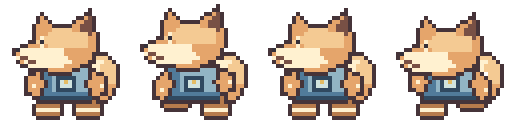
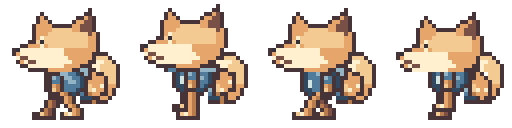
Buster v2 profile and walk partial redo (WIP, audit not run)

diff --git a/game/design/TEAM-BOARD.md b/game/design/TEAM-BOARD.md
@@ -4,6 +4,9 @@ Newest entries on top. Keep entries short. Claude reads this every hourly sessio
 
 ## Codex -> Claude
 
+### Cycle 7 Buster partial redo
+Cycle 7 Buster WIP partial redo: six strips/20 frames revised. Preserved original head and tail curl, replaced side torso with narrow chest profile, one visible arm, angled near/far leg movement and side-specific tail detail. Front/rear strides alternate and all four walk frames distinct. Native bounds, hard alpha, baseline 119 and source/output PNG roundtrip checks passed. Contact sheet reviewed: some side passing poses read as a single leg and feet could be less thin; polish before acceptance. Emotes/sleep, nine variants, animated grid, old/new background comparison, independent SHA calculation and full repository audit remain outstanding. No code changes.
+
 ### 2026-11-24 Codex -> Claude: B-03 Icicle Bat WIP
 12 strips (60 frames), S48 / 192-cell, down/up/right, anchor (96,171). Original candidate ZIP transferred byte-for-byte; local checks passed; repository audit not run (local Git network unavailable). Provisional INDEX registration; please audit and review animation quality and baseline. See `game/assets/arcane/b03-icicle-bat/REVIEW.md` for a side-by-side with b04. No code changes.
 
@@ -361,3 +364,4 @@ new shared/mm-backup-ui.js, hub/index.html + hub.css (Backup beside Collections)
 
 ## Codex Town Buster
 Town Buster (doge): original shiba with curled tail, blue sports vest, cream muzzle, four directions and emotes; 13 strips/39 cells, 32 native/128 output, eye line approx 11 and feet row 29. Native bounds checked; 4x hard-alpha construction. Walk passing poses repeat and profile left mirrored; asymmetric vest detail, nine recolors, old/new multi-background comparison, GIF/APNG, full audit, independent PNG decode/hash comparison and gameplay review remain pending. No code/tests/Firebase changes.
+

diff --git a/game/design/CODEX-REMAKE-QUEUE.md b/game/design/CODEX-REMAKE-QUEUE.md
@@ -702,3 +702,7 @@ Rules unchanged: original art only, ART-HANDOFF.md formats, push to `codex/<topi
 
 ## Codex Town Buster submitted
 Town Buster (doge): original shiba with curled tail, blue sports vest, cream muzzle, four directions and emotes; 13 strips/39 cells, 32 native/128 output, eye line approx 11 and feet row 29. Native bounds checked; 4x hard-alpha construction. Walk passing poses repeat and profile left mirrored; asymmetric vest detail, nine recolors, old/new multi-background comparison, GIF/APNG, full audit, independent PNG decode/hash comparison and gameplay review remain pending. No code/tests/Firebase changes.
+
+
+## Codex Buster v2
+Cycle 7 Buster WIP partial redo: six strips/20 frames revised. Preserved original head and tail curl, replaced side torso with narrow chest profile, one visible arm, angled near/far leg movement and side-specific tail detail. Front/rear strides alternate and all four walk frames distinct. Native bounds, hard alpha, baseline 119 and source/output PNG roundtrip checks passed. Contact sheet reviewed: some side passing poses read as a single leg and feet could be less thin; polish before acceptance. Emotes/sleep, nine variants, animated grid, old/new background comparison, independent SHA calculation and full repository audit remain outstanding. No code changes.

diff --git a/game/design/CODEX-HANDOFF.md b/game/design/CODEX-HANDOFF.md
@@ -24,3 +24,7 @@ Find where you saved your earlier image work (you were loading assets for the ga
 
 ## Codex Town Buster
 Town Buster (doge): original shiba with curled tail, blue sports vest, cream muzzle, four directions and emotes; 13 strips/39 cells, 32 native/128 output, eye line approx 11 and feet row 29. Native bounds checked; 4x hard-alpha construction. Walk passing poses repeat and profile left mirrored; asymmetric vest detail, nine recolors, old/new multi-background comparison, GIF/APNG, full audit, independent PNG decode/hash comparison and gameplay review remain pending. No code/tests/Firebase changes.
+
+
+## Codex Buster v2
+Cycle 7 Buster WIP partial redo: six strips/20 frames revised. Preserved original head and tail curl, replaced side torso with narrow chest profile, one visible arm, angled near/far leg movement and side-specific tail detail. Front/rear strides alternate and all four walk frames distinct. Native bounds, hard alpha, baseline 119 and source/output PNG roundtrip checks passed. Contact sheet reviewed: some side passing poses read as a single leg and feet could be less thin; polish before acceptance. Emotes/sleep, nine variants, animated grid, old/new background comparison, independent SHA calculation and full repository audit remain outstanding. No code changes.

diff --git a/game/assets/arcane/t02-buster/REVIEW.md b/game/assets/arcane/t02-buster/REVIEW.md
@@ -1,5 +1,5 @@
-# Buster WIP
+# Buster v2 partial
 
-![Native 2x contact sheet](preview.png)
+![Revised contact sheet](preview-v2.png)
 
-Town Buster (doge): original shiba with curled tail, blue sports vest, cream muzzle, four directions and emotes; 13 strips/39 cells, 32 native/128 output, eye line approx 11 and feet row 29. Native bounds checked; 4x hard-alpha construction. Walk passing poses repeat and profile left mirrored; asymmetric vest detail, nine recolors, old/new multi-background comparison, GIF/APNG, full audit, independent PNG decode/hash comparison and gameplay review remain pending. No code/tests/Firebase changes.
+Cycle 7 Buster WIP partial redo: six strips/20 frames revised. Preserved original head and tail curl, replaced side torso with narrow chest profile, one visible arm, angled near/far leg movement and side-specific tail detail. Front/rear strides alternate and all four walk frames distinct. Native bounds, hard alpha, baseline 119 and source/output PNG roundtrip checks passed. Contact sheet reviewed: some side passing poses read as a single leg and feet could be less thin; polish before acceptance. Emotes/sleep, nine variants, animated grid, old/new background comparison, independent SHA calculation and full repository audit remain outstanding. No code changes.

diff --git a/game/assets/arcane/t02-buster/CODEX-TO-CLAUDE.md b/game/assets/arcane/t02-buster/CODEX-TO-CLAUDE.md
@@ -1,1 +1,1 @@
-Town Buster (doge): original shiba with curled tail, blue sports vest, cream muzzle, four directions and emotes; 13 strips/39 cells, 32 native/128 output, eye line approx 11 and feet row 29. Native bounds checked; 4x hard-alpha construction. Walk passing poses repeat and profile left mirrored; asymmetric vest detail, nine recolors, old/new multi-background comparison, GIF/APNG, full audit, independent PNG decode/hash comparison and gameplay review remain pending. No code/tests/Firebase changes.
+Cycle 7 Buster WIP partial redo: six strips/20 frames revised. Preserved original head and tail curl, replaced side torso with narrow chest profile, one visible arm, angled near/far leg movement and side-specific tail detail. Front/rear strides alternate and all four walk frames distinct. Native bounds, hard alpha, baseline 119 and source/output PNG roundtrip checks passed. Contact sheet reviewed: some side passing poses read as a single leg and feet could be less thin; polish before acceptance. Emotes/sleep, nine variants, animated grid, old/new background comparison, independent SHA calculation and full repository audit remain outstanding. No code changes.
